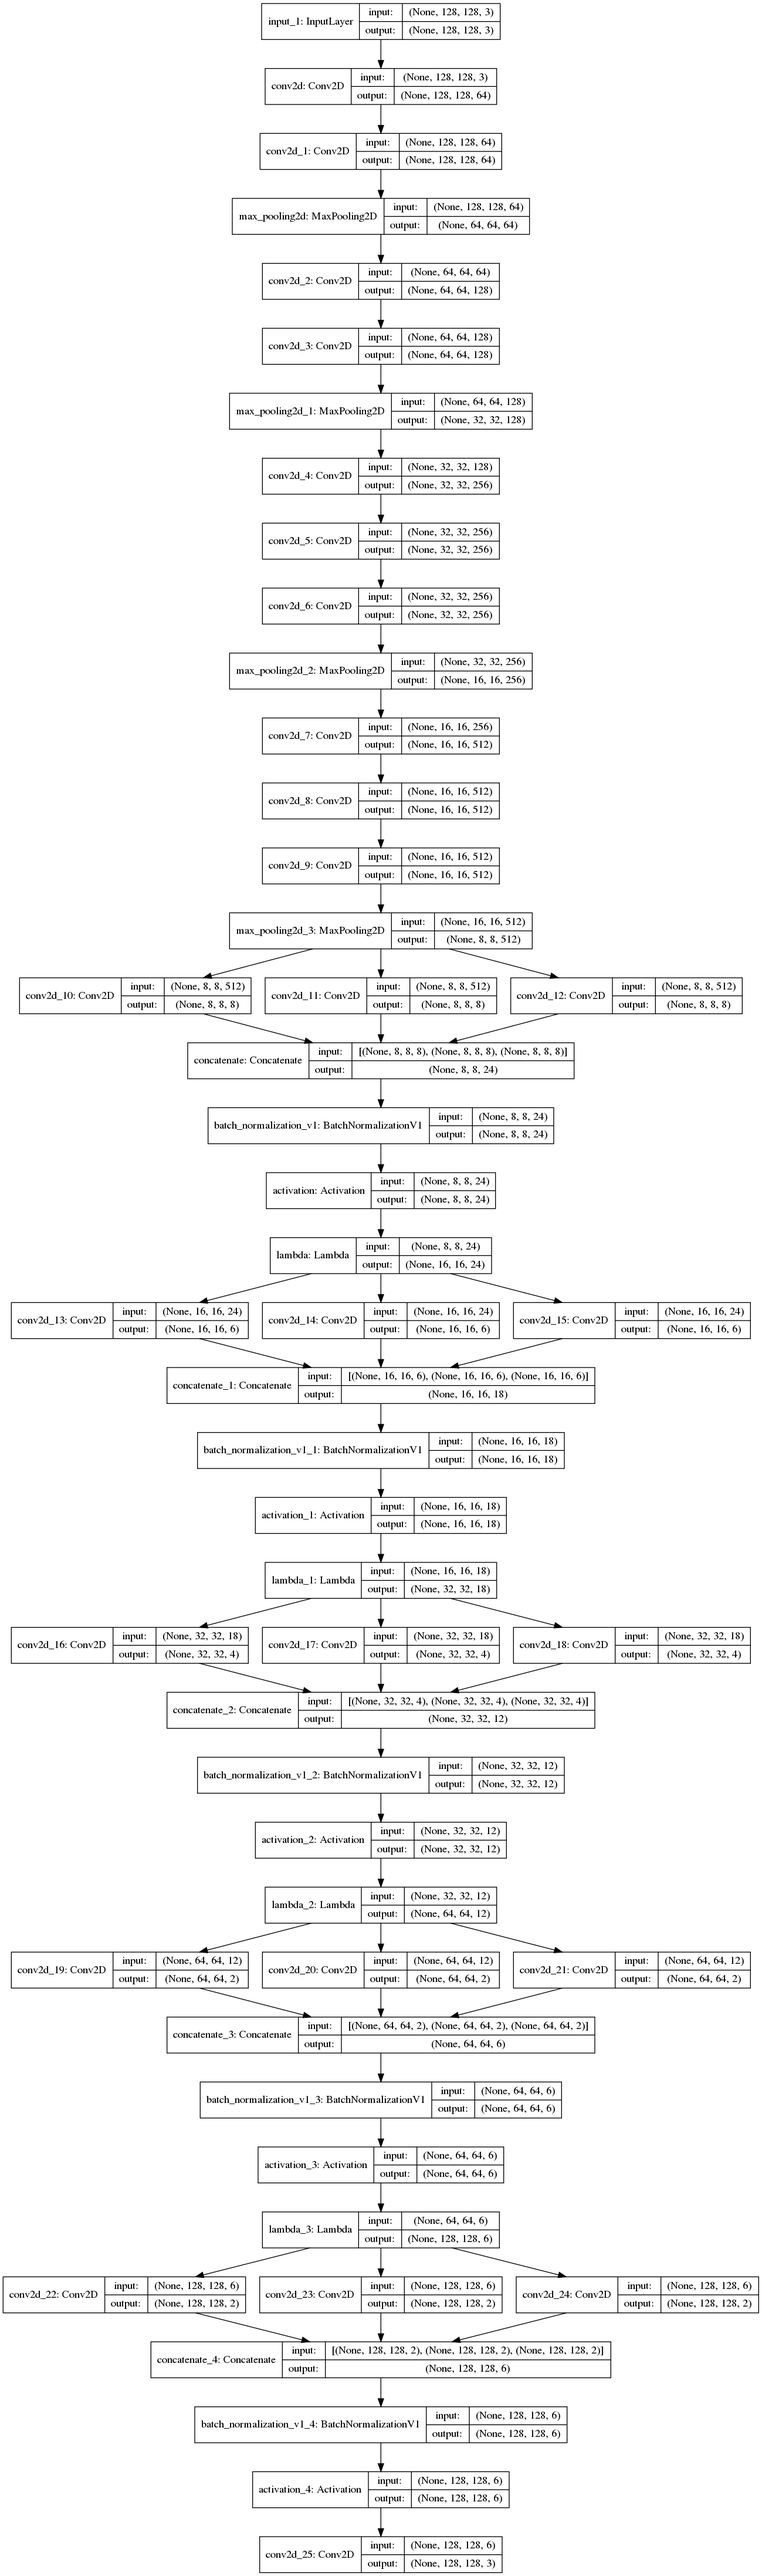
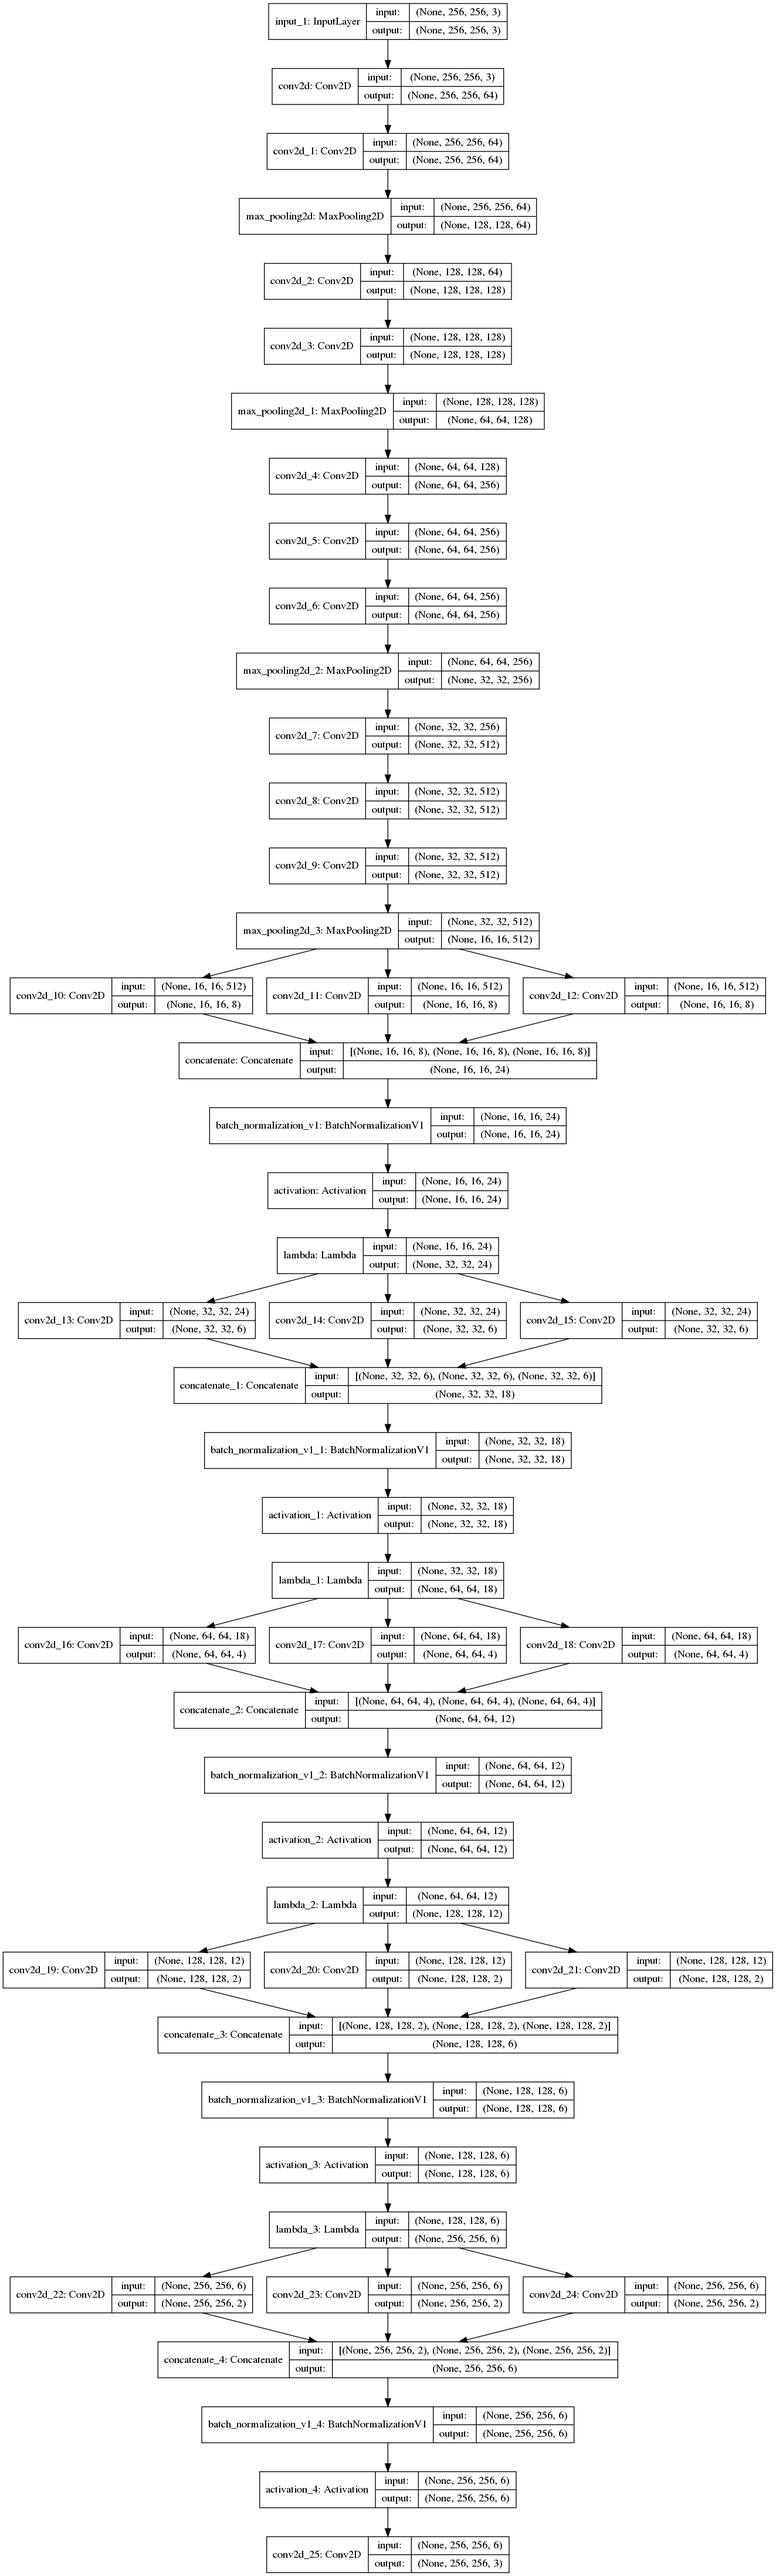
Version Update

diff --git a/core/utils.py b/core/utils.py
@@ -54,8 +54,8 @@ def plot_data(img,gt,pred,net,save_flag=None,show_imdt=False) :
 class DataSet(object):
     '''
     This Class is used to preprocess The dataset for Training and Testing
-    One single Image is augmented with rotation of 0 and 45 degree 
-    and each rotated image is flipped horizontally,vertically and combinedly to produce 8 images per one input
+    One single Image is augmented with rotation of (0,25) increasing by 5 degree 
+    and each rotated image is flipped horizontally,vertically and combinedly to produce 24 images per one input
     
     args must include:
     data_dir    = Directory of The Unzipped MICC-XXXX folder
@@ -94,6 +94,9 @@ class DataSet(object):
         self.save_dir=os.path.join(self.base_save_dir,self.mode)
         if not os.path.exists(self.save_dir):
             os.mkdir(self.save_dir)
+        
+        self.prb_idens=['P1000231','DSCN47']
+        self.data_size=args.data_size
 
     def __renameProblematicFileMICC_F2000(self):
         file_to_rename='nikon7_scale.jpg'
@@ -111,9 +114,10 @@ class DataSet(object):
             base_path,_=os.path.splitext(file_name)
             base_name=os.path.basename(base_path)
             base_name=base_name[:base_name.find(self.tamper_iden)]
-            self.IMG_Paths.append(file_name)
-            self.IMG_Idens.append(base_name)
-        
+            if base_name not in self.prb_idens: 
+                self.IMG_Paths.append(file_name)
+                self.IMG_Idens.append(base_name)
+            
         self.IMG_Idens=list(set(self.IMG_Idens))
         
         self.GT_Paths=[]
@@ -144,7 +148,10 @@ class DataSet(object):
             y=gt.transpose(imgop.FLIP_TOP_BOTTOM)
             y=np.array(y.transpose(imgop.FLIP_LEFT_RIGHT))
         
-        return np.concatenate((x,y),axis=1)
+        d=x-y
+        d[d!=0]=y[d!=0]
+        
+        return np.concatenate((x,d),axis=1)
 
     def __saveData(self,data,identifier):
         file_name=os.path.join(self.save_dir,identifier+'.png')
@@ -158,7 +165,7 @@ class DataSet(object):
             self.__saveData(data,'{}_{}_fid-{}_angle-{}'.format(rand_id,base_name,fid,rot_angle))
 
     def __genDataSet(self):
-        rotation_angles=[0,45]
+        rotation_angles=[i for i in range(0,30,5)]
         for img_path in self.IMG_Paths:
             #Get IMG and GT paths
             base_path,_=os.path.splitext(img_path)
@@ -273,51 +280,65 @@ def get_batched_dataset(FLAGS):
 #--------------------------------------------------------------------------------------------------------------------------------------------------
 def H5_data(image_path_list,obj,r_num):
     start_time=time.time()
-    X=[]
-    Y=[]
-    for image_path in image_path_list:
-    
-        LOG_INFO('IMG: {} '.format(image_path))
-    
-        img_obj=imgop.open(image_path)
+    for i in range(0,len(image_path_list),obj.data_size):
+        X=[]
+        Y=[]
+        image_paths=image_path_list[i:i+obj.data_size]        
+        for image_path in image_paths:
+            
+            LOG_INFO('IMG: {} '.format(image_path))
         
-        arr = np.array(img_obj.resize((2*obj.image_dim,obj.image_dim)))
+            img_obj=imgop.open(image_path)
+            
+            arr = np.array(img_obj.resize((2*obj.image_dim,obj.image_dim)))
+            
+            x = arr[:, :obj.image_dim, :]
+            y = arr[:, obj.image_dim:, :]
+
+            X.append(np.expand_dims(x,axis=0))
+            Y.append(np.expand_dims(y,axis=0))
         
-        x = arr[:, :obj.image_dim, :]
-        y = arr[:, obj.image_dim:, :]
+        LOG_INFO('Appending Time Taken: {} s'.format(time.time()-start_time),'yellow')
+        start_time=time.time()
+        
+        X=np.vstack(X)
+        
+        LOG_INFO('X stacking Time Taken: {} s'.format(time.time()-start_time),'yellow')
+        start_time=time.time()
+        
+        Y=np.vstack(Y)
+        
+        LOG_INFO('Y stacking Time Taken: {} s'.format(time.time()-start_time),'yellow')
+        start_time=time.time()
+        
+        h5_dir=os.path.join(obj.base_save_dir,'H5Data')
+        if not os.path.exists(h5_dir):
+            os.mkdir(h5_dir)
 
-        X.append(np.expand_dims(x,axis=0))
-        Y.append(np.expand_dims(y,axis=0))
-    
-    LOG_INFO('Appending Time Taken: {} s'.format(time.time()-start_time),'yellow')
-    start_time=time.time()
-    
-    X=np.vstack(X)
-    
-    LOG_INFO('X stacking Time Taken: {} s'.format(time.time()-start_time),'yellow')
-    start_time=time.time()
-    
-    Y=np.vstack(Y)
-    
-    LOG_INFO('Y stacking Time Taken: {} s'.format(time.time()-start_time),'yellow')
-    start_time=time.time()
-    
-    h5_dir=os.path.join(obj.base_save_dir,'H5Data')
-    if not os.path.exists(h5_dir):
-        os.mkdir(h5_dir)
+        h5_dir=os.path.join(h5_dir,obj.mode)
+        if not os.path.exists(h5_dir):
+            os.mkdir(h5_dir)
 
-    X_p=os.path.join(h5_dir,'X_{}_{}.h5'.format(obj.mode,r_num))
+        X_h5dir=os.path.join(h5_dir,'Images')
+        if not os.path.exists(X_h5dir):
+            os.mkdir(X_h5dir)
+
+        Y_h5dir=os.path.join(h5_dir,'Targets')
+        if not os.path.exists(Y_h5dir):
+            os.mkdir(Y_h5dir)
+
+
+        X_p=os.path.join(X_h5dir,'X_{}_{}.h5'.format(obj.mode,i))
+        
+        Y_p=os.path.join(Y_h5dir,'Y_{}_{}.h5'.format(obj.mode,i))
+        
+        saveh5(X_p,X)
+        
+        LOG_INFO('X H5 Saivng Time Taken: {} s'.format(time.time()-start_time),'yellow')
+        start_time=time.time()
+        
+        saveh5(Y_p,Y)
+        
+        LOG_INFO('Y H5 Saving Time Taken: {} s'.format(time.time()-start_time),'yellow')
     
-    Y_p=os.path.join(h5_dir,'Y_{}_{}.h5'.format(obj.mode,r_num))
-    
-    saveh5(X_p,X)
-    
-    LOG_INFO('X H5 Saivng Time Taken: {} s'.format(time.time()-start_time),'yellow')
-    start_time=time.time()
-    
-    saveh5(Y_p,Y)
-    
-    LOG_INFO('Y H5 Saving Time Taken: {} s'.format(time.time()-start_time),'yellow')
-    
-    return X_p,Y_p
     

diff --git a/main.py b/main.py
@@ -7,68 +7,25 @@ from termcolor import colored
 
 from core.utils import LOG_INFO
 from scripts.png import create_png
-from scripts.trainH5 import create_trainH5
-from scripts.testH5 import create_testH5
+from scripts.H5s import create_trainH5,create_testH5
 from scripts.tfrecords import create_tfrecord
 
 import time
 import os
 import numpy as np 
 import json
-import platform
-
-from subprocess import Popen, PIPE
 
 
 def readJson(file_name):
     return json.load(open(file_name))
 
-def clear_cache():
-    proc = Popen(['free', '-m'], stdout=PIPE)
-    while True:
-        line = proc.stdout.readline()
-        if not line:
-            break
-        print (colored(line.rstrip(),'red'))
-
-    os.system('sudo {}'.format(os.path.join(os.getcwd(),'clear_cache.sh')))          
-        
-    proc = Popen(['free', '-m'], stdout=PIPE)
-    while True:
-        line = proc.stdout.readline()
-        if not line:
-            break
-        print (colored(line.rstrip(),'green'))
 
 def main():
     start_time=time.time()
-    CLEAR_CACHE=True
-
-    if platform.system()!='Linux':
-        LOG_INFO('RAM/BUFFER/CACHE AUTO CLEAR NOT IMPLEMENTED FOR {}'.format(platform.system()),p_color='red')
-        LOG_INFO('To avoid error/ crash or if faced with error, execute the scripts in scripts folder separately for safe operation.',p_color='green')
-        CLEAR_CACHE=False
-    
     create_png()
-    
-    if CLEAR_CACHE:
-        clear_cache()
-
     create_trainH5()
-    
-    if CLEAR_CACHE:
-        clear_cache()
-    
     create_testH5()
-    
-    if CLEAR_CACHE:
-        clear_cache()
-    
-    create_tfrecord()
-    
-    if CLEAR_CACHE:
-        clear_cache()
-        
+    create_tfrecord()    
     LOG_INFO('Time Taken:{} s'.format(time.time()-start_time),p_color='yellow')
     
     

diff --git a/core/generators.py b/core/generators.py
@@ -12,7 +12,7 @@ import numpy as np
 import tensorflow as tf 
 from keras.utils import plot_model
 #-----------------------------------------------------------------------------------------------------------------------------
-def unet(image_dim=128,nb_channels=3,kernel_size=(3,3),strides=(2,2),padding='same',alpha=0.2):
+def unet(image_dim=256,nb_channels=3,kernel_size=(3,3),strides=(2,2),padding='same',alpha=0.2):
     # input 
     in_image_shape=(image_dim,image_dim,nb_channels)
     # U-Net
@@ -78,7 +78,7 @@ def lambda_fcn(X):
 def lambda_out(in_shape):
     return tuple([in_shape[0],in_shape[1]*2,in_shape[2]*2,in_shape[3]])
 #-----------------------------------------------------------------------------------------------
-def man_net(img_dim=128,nb_channels=3):
+def man_net(img_dim=256,nb_channels=3):
     nb_filters=[64,64,128,128,256,256,256,512,512,512]
     pool_idx=[1,3,6,9]
     nb_f=[i for i in range(8,0,-2)]
@@ -108,8 +108,6 @@ if __name__ == "__main__":
     model=unet()
     model.summary()
     plot_model(model,to_file='u-Net.png',show_shapes=True)
-    '''
     model=man_net()
     model.summary()
     plot_model(model,to_file='man_net.png',show_shapes=True)
-    '''

diff --git a/scripts/H5s.py b/scripts/H5s.py
@@ -15,9 +15,19 @@ import sys
 sys.path.append("..") 
 
 from core.utils import DataSet,LOG_INFO,readh5,H5_data
-from scripts.config import test_args
+from scripts.config import train_args,test_args
 
 
+
+def create_trainH5():
+    start_time=time.time()
+
+    LOG_INFO('Creating H5 for Train Data')
+    
+    obj=DataSet(train_args)
+    image_path_list=glob(os.path.join(obj.save_dir,'*.png'))
+    H5_data(image_path_list,obj,'ALL')
+    LOG_INFO('Total Time Taken:{} s'.format(time.time()-start_time),p_color='yellow')
 
 def create_testH5():
     start_time=time.time()
@@ -26,16 +36,11 @@ def create_testH5():
     
     obj=DataSet(test_args)
     image_path_list=glob(os.path.join(obj.save_dir,'*.png'))
-    X_p,Y_p=H5_data(image_path_list,obj,'ALL')
-    
-    X=readh5(X_p)
-    Y=readh5(Y_p)
-    
-    LOG_INFO('X Shape :({})'.format(X.shape))
-    LOG_INFO('Y Shape :({})'.format(Y.shape))
-    
+    H5_data(image_path_list,obj,'ALL')
     LOG_INFO('Total Time Taken:{} s'.format(time.time()-start_time),p_color='yellow')
 
+
 if __name__=='__main__':
+    create_trainH5()
     create_testH5()
     

diff --git a/README.md b/README.md
@@ -1,7 +1,7 @@
 # pyF2O
 Forged Image To Original Image Generation
 
-    Version: 0.0.2    
+    Version: 0.0.3    
     Author : Md. Nazmuddoha Ansary    
                   
 ![](/info/src_img/python.ico?raw=true )
@@ -41,25 +41,16 @@ Forged Image To Original Image Generation
         "save_dir"     : "/home/ansary/RESEARCH/F2O/",
     }        
 
-### clear_cache.sh (Ubuntu/Linux-- cache)
+### clear_mem.sh (Ubuntu/Linux)
 The complete preprocessing may take huge time and also cause to crash the system due to high memory useage. A way around is built for **Ubuntu** users is as follows:
-0. Create a shell script with only **echo 1 > /proc/sys/vm/drop_caches** command in the git repo
-1. Change ownership and permission for **clear_cache.sh** with a terminal on git repository folder and execute:
 
-        sudo chown root:root clear_cache.sh    
-        sudo chmod 700 clear_cache.sh    
-
-2. Type **sudo visudo**
-3. Find the line **%sudo ALL=(ALL:ALL) ALL**
-4. insert a line below as the format: ***username* ALL=(ALL) NOPASSWD: /home/username/path/to/git/repo/clear_cache.sh** and save and exit nano
-> example: **ansary ALL=(ALL) NOPASSWD: /home/ansary/RESEARCH/F2O/pyF2O/clear_cache.sh**
-5. run **main.py**
+1. run **main.py**
+2. run **sudo ./clear_mem.sh**
 
 ### For Non-Ubuntu Users:
 If you have enough **RAM**, no issue will occur hopefully.If not, execute the scripts in **scripts** folder in the following order:
 * ***png.py***
-* ***trainH5.py***
-* ***testH5.py***
+* ***H5s.py***
 * ***tfrecords.py*** 
 **NOTE**: The **png.py** must be executed prior to any other scripts 
 
@@ -69,28 +60,18 @@ If you have enough **RAM**, no issue will occur hopefully.If not, execute the sc
 * If execution is successful a folder called **F2O_DataSet** should be created with the following folder tree:
 
             F2O_DataSet  
-            ├── H5Data  
-            │   ├── X_Test_ALL.h5  
-            │   ├── X_Train_ALL.h5  
-            │   ├── Y_Test_ALL.h5  
-            │   └── Y_Train_ALL.h5  
-            ├── Test  
-            │   ├── XXXXXXXXXX.png  
-            |   |--------------------(PNG test images)  
-            │   └── XXXXXXXXXX.png  
-            ├── tfrecords  
-            │   ├── Test  
-            │   │   ├── Test_X.tfrecords  
-            |   |   ├──-------------------(Test_someNumber.tfrecords)  
-            |   |   └── Test_X.tfrecords  
-            │   └── Train  
-            │       ├── Train_X.tfrecords  
-            |       ├──-------------------(Train_someNumber.tfrecords)  
-            |       └── Train_X.tfrecords  
-            └── Train  
-                ├── XXXXXXXXXX.png  
-                |--------------------(PNG train images)  
-                └── XXXXXXXXXX.png  
+            ├── H5Data
+            │   ├── Test
+            │   │   ├── Images
+            │   │   └── Targets
+            │   └── Train
+            │       ├── Images
+            │       └── Targets
+            ├── Test
+            ├── tfrecords
+            │   ├── Test
+            │   └── Train
+            └── Train
 
 * The *'.png'* is a concatenated version of **ForgedImage|GroundTruth**
 > To understand the charecteristics of the *.png* data please read the Docstrings of **DataSet** class from  **core/utils.py**  
